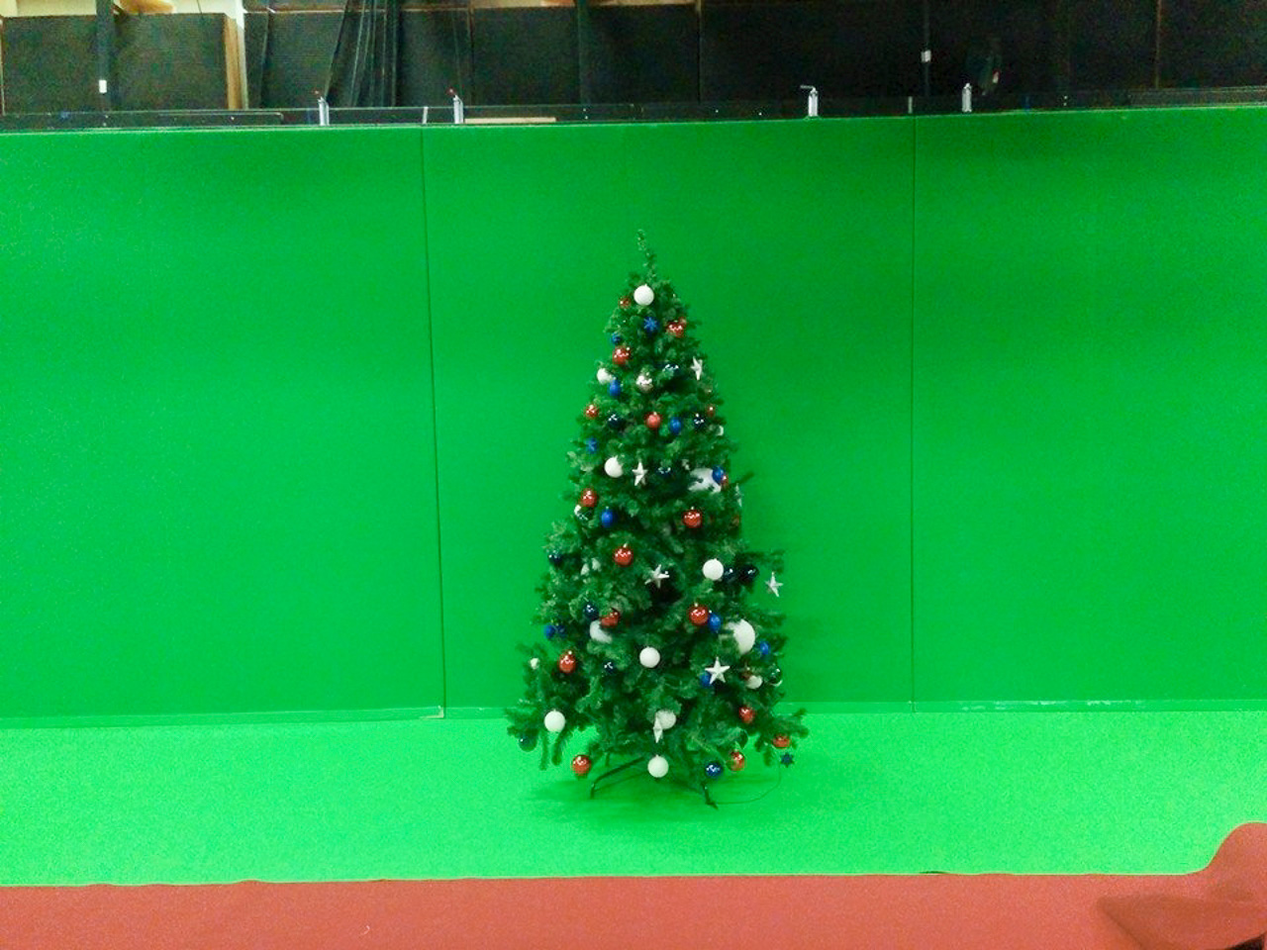
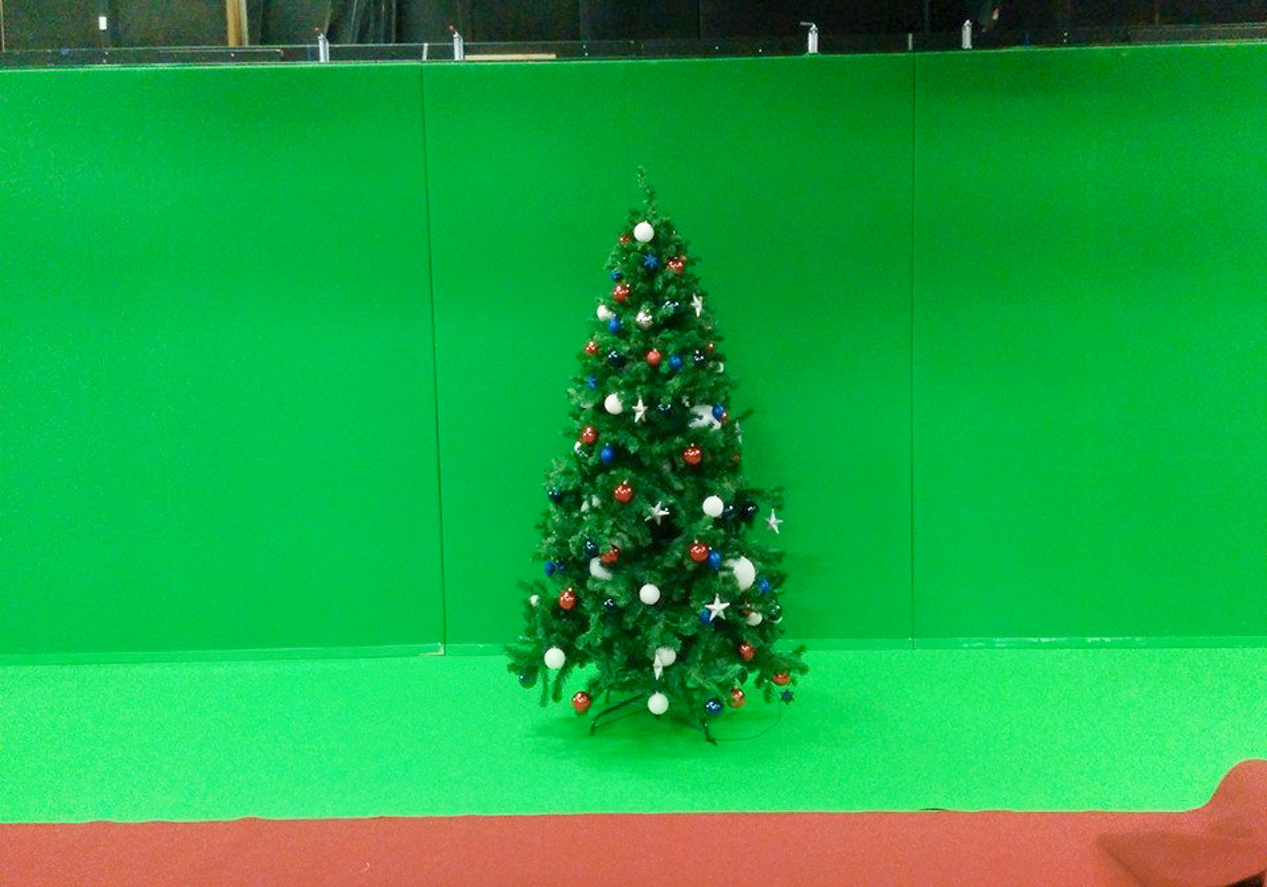
g
g

Changed region(s): [[0.0, 0.2188, 1.0, 0.9375], [0.0, 0.0, 1.0, 0.1875], [0.625, 0.8438, 0.6562, 0.875]]

diff --git a/assets/css/custom.css b/assets/css/custom.css
@@ -18,11 +18,11 @@ span.sidenote {
         clear: right;
         transform: translateY(-50%);  /* center the sidenote around the sidenote reference.*/
 
-        width: 28%;  /* season to taste */
+        width: 20%;  /* season to taste */
         margin: 0;
         margin-bottom: 1.1rem;
         margin-top: 1.1rem;
-        margin-right: -35%;
+        margin-right: -25%;
         padding: 0.5rem;
         padding-top: 0;
         padding-bottom: 0;

diff --git a/layouts/_shortcodes/tel.html b/layouts/_shortcodes/tel.html
@@ -1,0 +1,8 @@
+{{/* This is a shortcode from https://github.com/isqua/hugo-shortcodes */}}
+{{/* If you have any problems, check the latest version in this repository */}}
+
+{{- $number := .Get "number" -}}
+{{- $text := .Inner | default $number -}}
+{{- $url := printf "tel:%s" $number -}}
+
+<a class="hugo-shortcodes-tel" href="{{ $url | safeURL }}">{{ $text | markdownify }}</a>

diff --git a/content/english/previously/Sky-Sports/index.md b/content/english/previously/Sky-Sports/index.md
@@ -21,11 +21,8 @@ Use the Icons below to jump specific sports.
 {{< button label="🏈" link="#-nfl-american-football-inc-superbowl-" style="animated" >}}
 {{< button label="🤿" link="#---bog-snorkelling---" style="animated" >}}
 
-
-# Series / Lead Lighting Director for :
-
-{{< image src="images/logos/sky-sports-2020.png" caption="" alt="Sky Sports Logo" command="fill" position="center" option="q100" class="h-2 max-w-lg mx-auto " title="Sky Sports" webp="false" >}}
-
+{{< image src="images/logos/sky-sports-2020.png" alt="Sky Sports Logo" position="left" class="h-2 max-w-lg mx-auto" >}}
+#### Series / Lead Lighting Director for :
 ## ⚽ Football ⚽
 
 From almost his very first day as a Freelancer, Richard was lighting studio shows that mostly consisting of between 1 and 3 people, generally sat at a desk wearing suits and discussing football. _"..game of two halves...jumpers for goalposts..."_ and so on, but... there is one long-running production strand that takes football very seriously. 
@@ -36,12 +33,14 @@ Which, for a decade, Richard lit virtually every single broadcast of. On top of 
 
 ### Monday Night Football (MNF)
 
-{{< accordion "Expand for the long story" >}}
 #### The Studio G version - The Original
 
+{{< accordion "Expand for the long story" >}}
 Sky Sport's Premier League flagship production, led by the pundits Gary Neville and Jamie Carragher, delivers unusually long and highly detailed analysis during the studio-based pre-, mid-, & post- match coverage, along with more cameras deployed than for any other match. This had four different iterations over Richard's time, starting with the original Studio G production, first lit by Malcolm Reed (lots of MiStrip, Pixellines, a very unhelpful header, and an even more light-unfriendly £100k (back in 2011...) 103" Touchscreen...)
 
 The first day that Richard was due to go solo on this production, it had - very unexpectedly - had the plug pulled on it for the rest of that season half-way through the Rig, when the original presenters (Keys & Gray) were very abruptly & very publicly sacked, after tapes of some of their long-running unacceptable off-screen behaviors were [leaked to the Guardian.](https://www.theguardian.com/football/2011/jan/24/andy-gray-richard-keys-sexist-comments).
+
+{{< /accordion >}}
 
 MNF pioneered the use of giant interactive touch-screens for real-time analysis, with 2D and 3D computer graphics driven directly by the pundits controls - something that took the viewers a long time (and a lot of live mistakes!) to believe was actually true rather than pre-rendered. This was connected to incredibly detailed tracking and statistical analysis of every player in every Premier League (PL) match. They also pushed the limits of 3D graphics, with individual Hero / Walk-on clips of every PL player (shot on 2x 4k cameras, double-stacked on their side, at a time when HD was still a novelty for most people). This was mixed with insightful and fluff-free passionate commentary, to deliver an unprecedented quality - and duration! - of wrap-around analysis before, during, and after just one match. Even when it's a subject you can have no interest in, you can still tell when its being done better than anywhere else!
 
@@ -53,8 +52,12 @@ The upshot of this success was Sky Sports putting their hand in their pocket, an
 
 World-leading technologies stretched the boundaries of what could be achieved in a live studio environment with the Mixed-Reality set from 2013-2017 in Studio F, powerfully led by Senior Director Duncan East and Executive Producer Scott Melvin, who listened to and then demanded - and got - the best out of every single person working on the show, every single time.
   
-  {{<slider dir="images/gallery/MNF" class="max-w-[600px] ml-0" height="400" width="400" webp="true" command="Fit" option="" zoomable="true" >}}
+{{<slider dir="images/gallery/MNF" class="max-h-[400px] ml-0" height="400" width="400" command="Fit"  webp="true" zoomable="true" >}}
 
+{{< sidenote >}}Yes, that IS a green xmas tree on a green screen. 
+Yes, Sarah did manage to get it to key, sort of. 
+No, it didn't go on air there. {{< /sidenote >}}
+{{< accordion "Expand for the technical challenges" >}}
 The opening Team walkthrough with the Presenter (Ed Chamberlain then later Dave Jones) was particularly challenging technically - starting on a MCU hard up against a green wall, doing a walk all around the Green Screen area weaving in and out of life-size players, then the camera would reveal the real set outside the green area as well, and he would walk across to the main desk, going through the boundary between Real and VR - all in one shot, live. A tricky challenge with the technology of the day and a very low ceiling meaning couldn't get the lights as far away as was need to avoid inverse square law problems.
 
 Extensive used of dead matt black paint (real) and textures (virtual) were used to conceal the join between the Real and the Virtual, and a little LED strip was also used to hide the join. Trying to keep both the green and black floors free from dust was a nightmare, despite the entire crew being badgered to wear overshoes by the Floor Manager Frankie...the breakthrough came when Richard released what was needed was not trying to make Reality impossibly perfect, but to make the Virtual a bit scruffy. Sales of blue plastic shoes plummeted.
@@ -68,22 +71,19 @@ After getting that right, whilst simultaneously wrestling with an Octopus  - the
 All the light used to even-out the green surfaces then had to be kept from bouncing out into the real set, which could not have the green key'ed out because of the video projectors and screens having ...green... football pitches in them. A fully virtual set would been easier, but that would not have given Production a fully-usable environment that could (...and occasionally was..) be switched-to immediately for the next three hours should any of the Virtual elements fail.
 
 If there was one thing that could be guaranteed, with all the bleeding-edge technology deployed across the board, was that something would fail whilst on-air every week. You just had to pray it wasn't your turn for the gremlins to hit...And if getting all this kit working once wasn't hard enough, the entire production, with all its temperamental parts had to be rigged from scratch *every week, in just one day*. An aspect that was a constant point of disbelief by technical visitors from other television networks from around the world.
+{{< /accordion >}}
 
 #### The Studio 1 version - Time to share...
 
-After spending 4 years out of the originally-commissioned 3 years in Studio F, the savings together with another couple of million pounds found down the back of a sofa to address the competition coming from an unexpected new direction (BT Sport) was spent on a new set. This time, instead of moving next door, they moved across the road to a proper purpose-built studio instead of a converted warehouse (finallY!), and built a permanent, dedicated, studio with less bleeding-edge technology and specialist subcontractors, putting to bed the years of technical gremlins that had plagued MNF since the start (...well, mostly). As a bonus, once built, for the following 13 days the space be used by a host of other Sports Productions, each of whom could have their own corner of the studio, all instantly ready to go...
+After spending 4 years out of the originally-commissioned 3 years in Studio F, the resultant savings, together with another couple of million pounds found down the back of a sofa, was used to combine MNF with efforts to address the increased competition coming from an unexpected new direction (BT Sport). This time, instead of moving next door, they moved across the road instead, and into a proper purpose-built studio instead of a converted warehouse (finally!). They built a permanent, dedicated, set, but with less bleeding-edge technology and specialist subcontractors, putting to bed the years of technical gremlins that had plagued the previous iteration of MNF since the start. And, once built, when it wasn't being used, it was available for a whole host of other Sports Productions, each of whom were supposed to have their own unique area of the studio all instantly ready to go... {{< sidenote >}} Well, that was the theory that was sold - The instantly ready aspect went straight out the window, together with being confined to unique areas, once the production teams got their teeth into a new space, with so many tempting possiblities compared to their previous decades spent stuck in glorified storerooms with a 3 chairs and a desk and maybe 5 shots possible. _But I digress..._ {{< /sidenote >}}
 
-The instant aspect went straight out the window once the practicalities sunk in of everyone wanting to use all of the studio space and mix things up each week, now that they had at last escaped years of static Presentation stuck in glorified broom cupboards where you had 3 chairs and a desk, maybe 5 shots possible, with no room for jib or steadicam. _But I digress..._
-
-The money got spent on lots and lots of video walls and graphics hardware, along with large colour-changing backlit LED panels that gave each sporting strand their own unique visual identity. They even had enough money left over was sufficient to build a similar-looking "little brother" set in an adjacent Studio. Moving across the road into Sky Studios also had the advantage that the Production Control Rooms and Studios can very quickly change their interconnections, allowing Production teams to set-up in one PCR whilst the studio is used by another, and then flip-over in as little as a single commercial break (provided they use the same or pre-prepared positions, as trying to reset lights, cameras, sound, set, and Talent in 3-5 minutes has physical limits. especially when the set constricts teh flow in and out of the only studio door.
+The money got spent on lots and lots of video walls and graphics hardware, along with large colour-changing backlit LED panels that gave each sporting strand their own unique visual identity. They even had enough money left over to build a similar-looking "little brother" set in the smaller Studio 3 nearby. {{< sidenote >}} Moving across the road into Sky Studios also had the advantage that the Production Control Rooms and Studios can very quickly change their interconnections, allowing Production teams to set-up in one PCR whilst the studio is used by another, and then flip-over in as little as a single commercial break... provided everyone used the same or pre-prepared positions, as trying to reset lights, cameras, sound, set, in 3-5 minutes would be extremly challenging (didn't stop it being attempted occasionally!)...that's barely enough time to swap two sets of Talent (and their snacks) around! {{< /sidenote >}}
 
 Focusing back onto Monday Night Football, one of the technologies they retained exclusive use of (ish...was borrowed a few times by F1 and Golf) was the Virtual Graphics - this time round, the new buzzing technology was Augmented Reality (AR). This overlays tracked 3D graphics on top of the camera output, without any of the problems caused by having to key of Green surfaces whilst not keying off any reflected or bounced Green lights, so is a fraction of the cost. This is great...right up until the entire illusion is shattered when the camera moves the wrong way and suddenly something that was in the background is now on top of the foreground or Talent. As a consequence of decided they really only needed to track the Jib camera experimental and not bother with having Peds shoot the 3D sequences, they invested in the far simpler and cheaper N-Cam system this tim, which requires far less continuous correcting and no magic wands required. But only works on one camera, you can't cut between two AR-equipped cameras. Which also saves on super-expensive Viz graphics machines.
 
 **STORY TO BE CONTINUED**
 
-{{< /accordion >}}
-
-{{< tabs "The Different Sets" >}}
+{{< tabs  >}}
 {{< tab "Studio G - The Original" >}}
 Gary Neville's TV Debut.
 
@@ -149,7 +149,7 @@ Very unusually for a men's football show, this was presented by Sarah-Jane Mee (
 {{< rawhtml >}}
 <section class="relative isolate overflow-hidden bg-gray-700 px-4 py-6">  
   <div class="mx-auto max-w-2xl lg:max-w-4xl">
-    <img src="https://www.lightingdir.com/images/SkySports/offsiderule1.jpg" alt="" class="mx-auto h-12" />
+    <img src="/images/SkySports/offsiderule.jpg" alt="" class="mx-auto h-12" />
     <figure class="mt-10">
       <div class="text-center text-xl/8 font-semibold text-white sm:text-2xl/9">No.<p></p></div>
       <blockquote class="text-center text-xl/8 font-semibold text-white sm:text-2xl/9">
@@ -161,7 +161,7 @@ Very unusually for a men's football show, this was presented by Sarah-Jane Mee (
           <svg viewBox="0 0 2 2" width="3" height="3" aria-hidden="true" class="fill-white">
             <circle r="1" cx="1" cy="1" />
           </svg>
-          <div class="text-gray-400">MNF Director</div>
+          <div class="text-gray-400">A.N. Senior Director</div>
         </div>
       </figcaption>
     </figure>

diff --git a/content/english/previously/Sky-News/index.md b/content/english/previously/Sky-News/index.md
@@ -85,7 +85,7 @@ The lighting for all the day-to-day use of these dedicated News studio spaces wa
 
 #### Studio A - The Legacy Studio
 
-Richard first supported and later expanded LD Don Hart's work in the large open space in the middle of Unit 1 {{< sidenote >}} when built, the largest studio sky had, but still essentially a tin shed box warehouse like all their studios before the opening of the Sky Studios building in 2011 (Studios 1-8) {{< /sidenote >}} with its very complex and demanding weight restrictions; through to its eventual closure at the end of Project Tardis (the move across the road into Sky Studios) {{< sidenote >}}The Structural Engineering specified the distance between lights and no expection was allowed, otherwise that once in 10 years snowstorm might collapse the whole building. {{< /sidenote >}}
+Richard first supported and later expanded LD Don Hart's work in the large open space in the middle of Unit 1 {{< sidenote >}} when built, the largest studio sky had, but still essentially a tin shed box warehouse like all their studios before the opening of the Sky Studios building in 2011 (Studios 1-8) {{< /sidenote >}} with its very complex and demanding weight restrictions; through to its eventual closure at the end of Project Tardis (the move across the road into Sky Studios) {{< sidenote >}}The Structural Engineering specified the distance between lights and no exception was allowed, otherwise that once in 10 years snowstorm might collapse the whole building. {{< /sidenote >}}
 
 His main change was for a huge 5k, 5m high videowall that replaced the original curved wall, and paid for itself in a couple of years in saved electricity as made of DLP Projector cubes instead of discrete LED (that nicely lit the opposite side of the build).This featured his introduction of the first ETC Source 4 LED fixtures when a vast new Video Wall with a different shape was introduced in 2013.
 
@@ -172,7 +172,7 @@ Expand for Educational sections
 
 Due to the on-going Social Distancing rules at that time _(making the whole premise of this programme seem a bit ... **premature**)_ Richard made the decision to have a lighting rig made-up almost entirely of moving-lights. This would reduce the need for people working on the studio floor with a pole adjusting lights during rehearsals, as keeping distance from each other limited the total numbers on the floor at any one time to 13 people. The "Natural" air conditioning was cranked fully-open, and it was January. ❄ ☃ 🥶
 
-Gallery staff had more challenging limits on their movements, essentially bolted to their seats with some perspex shields between each other and haldf the usual density. As the lighting positions at Sky are by default located at the furthest point from the doorsSky, we took advantage of the flexible infrastructure and promptly decamped to another gallery. {{< sidenote >}} for reasons that probably made sense for basic sports presentation 30 years ago, but not when doing complex LE type shows when the LD is up and down like a yo-yo and the tea never gets finished{{< /sidenote >}} 
+Gallery staff had more challenging limits on their movements, essentially bolted to their seats with some perspex shields between each other with half the usual staffing density. As the lighting positions at Sky are by default located at the furthest point from the doorsSky, we took advantage of the flexible infrastructure and promptly decamped to the adjacent gallery. {{< sidenote >}} located there for reasons that probably made sense for basic sports presentation 30 years ago, but not when doing complex LE type shows when the LD is up and down like a yo-yo and the tea never gets finished{{< /sidenote >}} 
 
 3D modelling was extensively done beforehand to confirm positions and distances with the need to give wide coverage with a light as far back as possible but without clipping the set, or being too steep.
 
@@ -191,14 +191,14 @@ Covid Crisis Lighting plot :
 Covid Crisis Magic Sheet by end of Show 1 :
 {{< figure src="images/SkyNews/Studio45/CovidCrisisMS.jpg" >}}
 
-Downloadable versions : {{< download text="Initial Plot" url="/images/SkyNews/Studio45/CovidCrisisPlot.jpg" />}} {{< download text="Magic Sheet" url="/images/SkyNews/Studio45/CovidCrisisMS.jpg" />}}
+Downloadable versions : {{< download url="/images/SkyNews/Studio45/CovidCrisisPlot.jpg" >}} 🗂 Initial Plot {{< /download >}} {{< download url="/images/SkyNews/Studio45/CovidCrisisMS.jpg" >}} 🗂 Magic Sheet {{< /download >}}
 <hr>
 Compare the initial plot with the console MagicSheet which shows the final version of the show.
 <hr>
 
-It should be immediatly clear that a lot more than originally anticipated of the existing studio tungsten 2k's had to be used in a line along the top edge of the studio. Probably because a static position became a long walk up and down with 180 flip mid-conversation The positions up on the platform was cut too late to move any lights around to new positions. All of which shows, how ever many angles you think you've got covered with moving lights, Production will always find a secret new one you hadn't thought of.
+It should be immediately clear that a lot more than originally anticipated of the existing studio tungsten 2k's had to be used in a line along the top edge of the studio. Probably because a static position became a long walk up and down with 180 flip mid-conversation The positions up on the platform was cut too late to move any lights around to new positions. All of which shows, how ever many angles you think you've got covered with moving lights, Production will always find a secret new one you hadn't thought of.
 
-Due to the steep video walls, when near the wall Sophie had to be lit from both sides - but, if all this light came in from a long way away, it would splash all over the set behind her, as well as have shadows from the cameras operators. Which is why there are a whole series of lights in a row instead of a single key further away. As long as these are at least a moderatly reasonable distance away, once carefully focused with a bit of back and forth and walking around they merge into one another. 
+Due to the steep video walls, when near the wall Sophie had to be lit from both sides - but, if all this light came in from a long way away, it would splash all over the set behind her, as well as have shadows from the cameras operators. Which is why there are a whole series of lights in a row instead of a single key further away. As long as these are at least a moderately reasonable distance away, once carefully focused with a bit of back and forth and walking around they merge into one another. 
 
 {{< sidenote >}} A _Scientific LD_ compares levels with a light meter. {{< /sidenote >}} 
 
@@ -206,7 +206,7 @@ Due to the steep video walls, when near the wall Sophie had to be lit from both 
 
 {{< sidenote >}} The _Artistic LD_ dons a pair of designer sunglasses, looks in completely the wrong direction, and says 'its meant to look lumpy' {{< /sidenote >}} 
 
-{{< sidenote >}} All are, of course, completly correct, for their particular production {{< /sidenote >}}
+{{< sidenote >}} All are, of course, completely correct, for their particular production {{< /sidenote >}}
 If the source is too close, you will inevitably get hot spots, even if using softer sources than Fresnels, which is why in tiny studios, the inverse square law is most definitely off the xmas card list....
 not your friend in a small studio. Fortunately, this studio can have lights up to 9m in the air - in reality they were probably about 5-6m up. as Sophie was stood too close to the wall to get anything in from above when facing that screen. The pre-production plot for this one-off production is shown below, as an example of how to approach the challenges of shooting in the round.  
 
@@ -232,7 +232,7 @@ not your friend in a small studio. Fortunately, this studio can have lights up t
 
 ### ...For I have stood on the Shoulders of Giants...
 
-**LD Don Hart** for explaining in intricate detail his Studio A lighting design before handing-it over in 2012, with its many quirky zoneing restrictions or even bans on rigging positions ...and even the types of luminaries alloweed in each sone... which were absolute dictates by Structural Engineers back when the studio was built in 2005.
+**LD Don Hart** for explaining in intricate detail his Studio A lighting design before handing-it over in 2012, with its many quirky zoning restrictions or even bans on rigging positions ...and even the types of luminaries allowed in each sone... which were absolute dictates by Structural Engineers back when the studio was built in 2005.
 
 **LD Dave Evans** for the cracking of the _~~Enigma Code~~_ **Glass Box Camera Challenge** with his original lighting-design, the principles of which he expertly communicated throughout the design process and then fully handed-over at Launch in 2017. 
 
@@ -242,15 +242,15 @@ Although all of the on-going Design and Development, together with much of the s
 
 The day-to-day output was thanks to tha care and attention to detail by the expansive team of **Technical Supervisors** and **Technical Operators**, who would internally communicate the essentials of any new production both 1:1 and in writing, which were sometimes ready in less time that it took to reach the Gallery after rehearsals! 
 
-Their end-user feedback on different choices of everything from button size and location to diagramatic and control methodolgy, as well as capturing and then automating any manual adjustments made over time, was absolutely fundamental to the continous evolution of their bespoke Tardis Control System.
+Their end-user feedback on different choices of everything from button size and location to diagrammatic and control methodology, as well as capturing and then automating any manual adjustments made over time, was absolutely fundamental to the continuous evolution of their bespoke Tardis Control System.
 
 ### The Lift from Above
 
-The support and feedback from Sky News throughout was essential, starting with the always conscise - and always absolutely spot-on - the (then) **Head of Sky News, John Ryley**, and the indispensible advance information and guidance total trust and backing given by the Head of Studio Output _Jon Bennet_ ssucceeded by _Ben Wickeham_ - through to the many Directors, Producers, and the wider team in Sky News; far too many to name-check!
+The support and feedback from Sky News throughout was essential, starting with the always concise - and always absolutely spot-on - the (then) **Head of Sky News, John Ryley**, and the indispensable advance information and guidance total trust and backing given by the Head of Studio Output _Jon Bennet_ succeeded by _Ben Wickeham_ - through to the many Directors, Producers, and the wider team in Sky News; far too many to name-check!
 
-And of course, the coopperation and trust of the on-screen **Talent** [^1] - most memorably Kay Burley over the years - with each of whom Richard worked to ensure they had very precise but reproducable positions with appropriate lighting customised to their individual needs. He even came up with an invisible-on-camera method to mark positions on the floor to replace the usual gaudy collection of temporary sticky tape...something very important to keep the studio looking crisp and clean with camerashots often taking in the wide expanses of high quality studio floor - which leads me on to thank the great team of Set Designers at **Jago**. 
+And of course, the cooperation and trust of the on-screen **Talent** [^1] - most memorably Kay Burley over the years - with each of whom Richard worked to ensure they had very precise but reproducible positions with appropriate lighting customised to their individual needs. He even came up with an invisible-on-camera method to mark positions on the floor to replace the usual gaudy collection of temporary sticky tape...something very important to keep the studio looking crisp and clean with camera shots often taking in the wide expanses of high quality studio floor - which leads me on to thank the great team of Set Designers at **Jago**. 
 
-[^1]: It was gratifying to often see a flicker of relief in their eyes when they saw that Richard was present for the build-up & launch of their latest regular strand or one-off special (often starting at some very unfriendly times of night), as they knew they could then stop worrying if they looked their best on-air (something not helped by the _variable_ setup of various studio monitors)
+{{< sidenote >}} Often flicker of relief in the Talent's eyes when they saw that Richard was present for the build-up & launch of their latest regular strand or one-off special - often starting at some very unfriendly times of night - as they knew they could then stop worrying if they looked their best on-air (something not helped by the _variable_ setup of various studio monitors) {{< /sidenote >}}
 
 {{< /accordion >}}
 

diff --git a/content/english/about/_index.md b/content/english/about/_index.md
@@ -9,9 +9,13 @@ draft: false
 ---
 
 {{< notice title="Site Navigation" >}}
-The _Previously..._ section contains the majority of the content to explore, and will continue to be significantly expanded over time to give some educational insight into design choices.
+The _Previously..._ section contains the majority of the content to explore, and will continue to be significantly expanded over time. 
 
-_Tabbed views_ are used throughout this site to flip between related information, and to reduce lengthy scrolling.
+_Tabbed views_ are used throughout this site to flip between related information, and to reduce lengthy scrolling. 
+
+_Educational notes_ indicates some more detailed information about historical productions, which is given on the basis of fair-use in the hope that it may be of some interest to students of television lighting techniques.
+
+Feedback on the good, the bad, and the ugly is always welcome.
 {{< /notice >}}
 
 ## Introduction
@@ -25,7 +29,7 @@ For 15 years until recently, he working for Sky Television (UK) as a Lighting Di
 He is based near Windsor, just outside London, UK, and is currently seeking new opportunities.  
 Thanks to his Irish citizenship he is able to freely move about and work in both the UK and the EU.
 
-For some of what he's up to now (the ones that can be publicly discussed) have a peak at {{< button label="...Current Activity" link="/currently" style="outline" >}}>
+For some of what he's up to now (where can be discussed) have a peak at {{< button label="...Current Activity" link="/currently" style="animated" >}}>
 
 To find out much, much, more about his past work you can {{< button label="Explore Previous Productions..." link="/previously" style="outline" >}}
 
